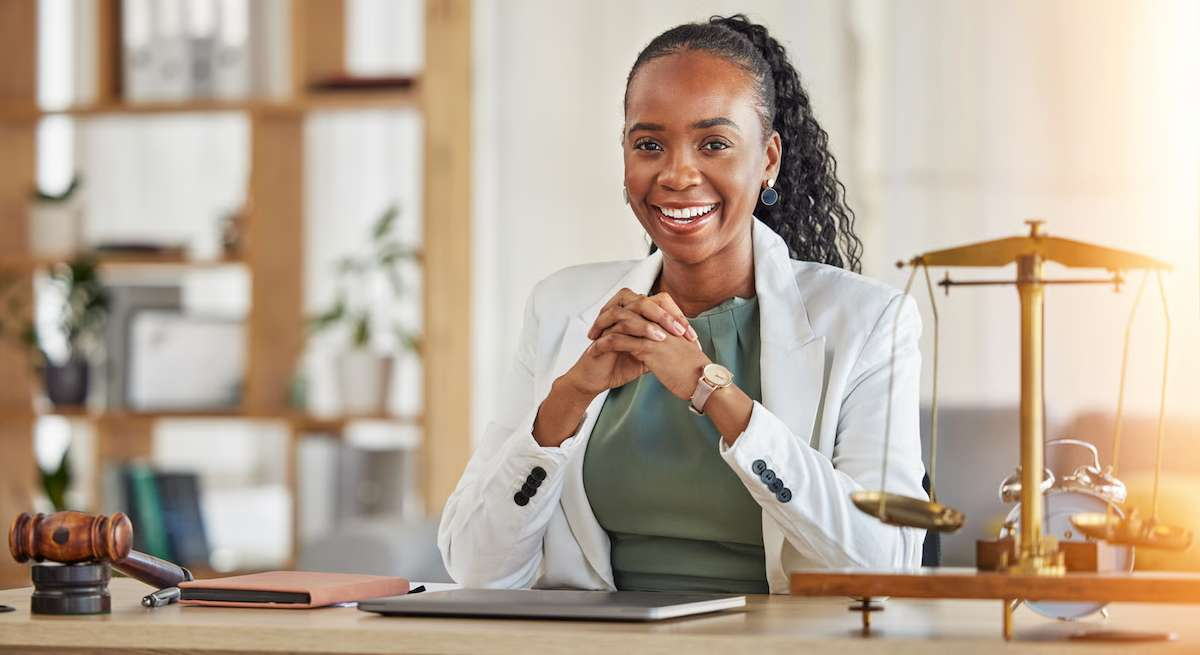
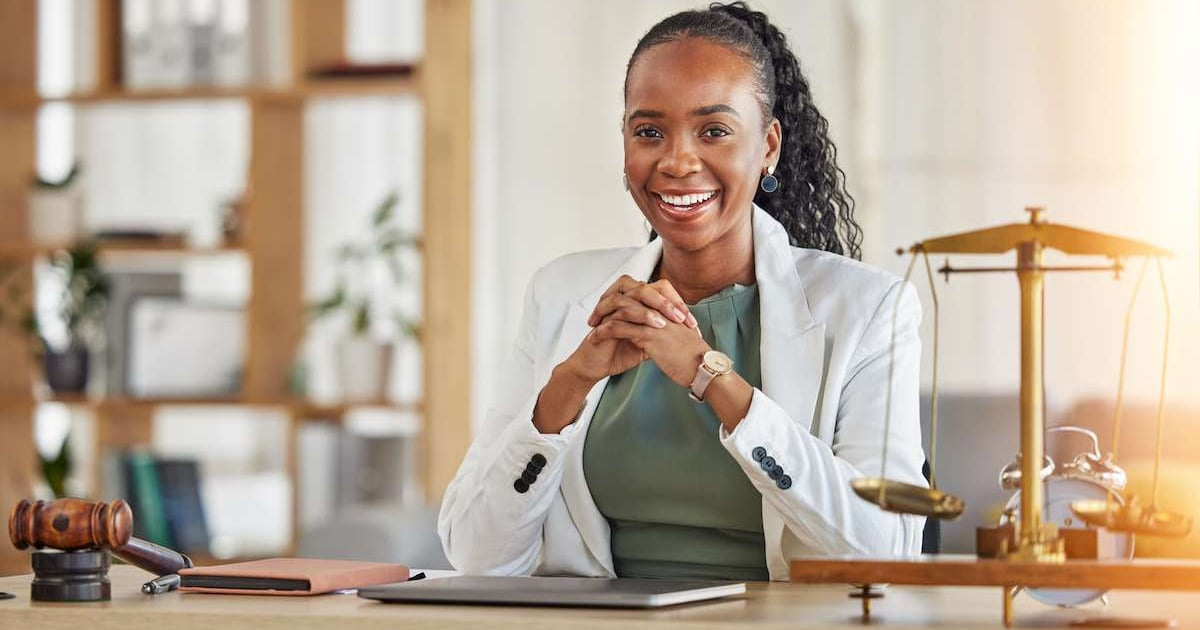
fix(seo): corrige issues do audit Woorank + ajustes de copy
Imagens OG (Open Graph):
- Redimensiona 7 imagens (~1200x630 padrão Facebook): landing-page-para
  -advogados.jpg, blog-landing-page.jpg, quem-somos.jpg, portfolio.jpg,
  politica-de-privacidade.jpg, termos-de-uso.jpg, 404.jpg.
  Antes: 1200x800/745/655 (ratios irregulares causando warning
  'og:image:height provided size doesn't match actual size').

Contraste WCAG (corrige falhas explícitas do Woorank):
- Hero URL preview text-white/45 → text-white/65 (era 3.87:1, agora >5:1)
- Hero 'BANCAS QUE CONFIARAM' text-white/45 → text-white/65 (era 4.33:1)
- Differentials número '/01' text-ink-300 → text-ink-500 (era 2.43:1)
- Footer copyright text-white/45 → text-white/65
- ContactForm '(opcional)' e placeholders text-ink-300 → text-ink-400
- BlogSearch ícone, placeholder e tempo leitura text-ink-300 → text-ink-400

Copy:
- Hero p1: 'landing pages' → 'landing page' (singular)
- Footer eyebrow: 'Landing Page para Advogados' → 'Landing Page para
  escritório de advocacia'

diff --git a/src/components/Hero.tsx b/src/components/Hero.tsx
@@ -68,7 +68,7 @@ export default function Hero() {
             </h1>
 
             <p className="mt-7 max-w-xl text-lg font-light leading-relaxed text-white/75">
-              Criamos <strong className="font-semibold text-white">landing pages para advogados</strong>{' '}
+              Criamos <strong className="font-semibold text-white">landing page para advogados</strong>{' '}
               com foco em estratégia, design profissional, SEO técnico e linguagem compatível com as
               regras da OAB.
             </p>
@@ -140,7 +140,7 @@ export default function Hero() {
                   <span className="h-2.5 w-2.5 rounded-full bg-rose-400/70" />
                   <span className="h-2.5 w-2.5 rounded-full bg-amber-300/70" />
                   <span className="h-2.5 w-2.5 rounded-full bg-emerald-400/70" />
-                  <span className="ml-2 flex-1 truncate rounded-md bg-white/5 px-2 py-1 text-[10px] text-white/45">
+                  <span className="ml-2 flex-1 truncate rounded-md bg-white/5 px-2 py-1 text-[10px] text-white/65">
                     landingpageparaadvogados.com
                   </span>
                 </div>
@@ -174,7 +174,7 @@ export default function Hero() {
 
         {/* Trust strip */}
         <div className="mt-20 border-t border-white/10 pt-8">
-          <p className="text-center text-[11px] uppercase tracking-[0.2em] text-white/45">
+          <p className="text-center text-[11px] uppercase tracking-[0.2em] text-white/65">
             Bancas que confiaram na nossa metodologia
           </p>
           <div className="mt-6 grid grid-cols-2 items-center gap-y-6 text-center text-sm font-light text-white/55 sm:grid-cols-3 md:gap-x-12">

diff --git a/src/components/BlogSearch.tsx b/src/components/BlogSearch.tsx
@@ -54,7 +54,7 @@ export default function BlogSearch({ posts }: Props) {
               viewBox="0 0 24 24"
               strokeWidth={2}
               stroke="currentColor"
-              className="pointer-events-none absolute left-4 top-1/2 h-5 w-5 -translate-y-1/2 text-ink-300"
+              className="pointer-events-none absolute left-4 top-1/2 h-5 w-5 -translate-y-1/2 text-ink-400"
               aria-hidden="true"
             >
               <path
@@ -72,7 +72,7 @@ export default function BlogSearch({ posts }: Props) {
               placeholder="Buscar por palavra-chave, tag ou categoria…"
               value={query}
               onChange={(e) => setQuery(e.target.value)}
-              className="w-full rounded-2xl border-0 bg-cream-50 py-4 pl-12 pr-4 text-sm font-light tracking-tight text-ink-900 placeholder:text-ink-300 focus:outline-none focus:ring-2 focus:ring-primary/20"
+              className="w-full rounded-2xl border-0 bg-cream-50 py-4 pl-12 pr-4 text-sm font-light tracking-tight text-ink-900 placeholder:text-ink-400 focus:outline-none focus:ring-2 focus:ring-primary/20"
             />
           </div>
 
@@ -167,7 +167,7 @@ export default function BlogSearch({ posts }: Props) {
               </p>
               <div className="mt-6 flex items-center justify-between text-xs">
                 <span className="font-light text-ink-400">{formatDate(p.date)}</span>
-                <span className="font-mono text-ink-300">{p.readingTime} min</span>
+                <span className="font-mono text-ink-400">{p.readingTime} min</span>
               </div>
             </div>
           </Link>

diff --git a/src/components/ContactForm.tsx b/src/components/ContactForm.tsx
@@ -33,7 +33,7 @@ export default function ContactForm() {
   }
 
   const inputClass =
-    'w-full rounded-2xl border border-ink-100 bg-white px-4 py-3 text-sm font-light text-ink-700 placeholder:text-ink-300 transition-colors focus:border-primary focus:outline-none focus:ring-2 focus:ring-primary/15';
+    'w-full rounded-2xl border border-ink-100 bg-white px-4 py-3 text-sm font-light text-ink-700 placeholder:text-ink-400 transition-colors focus:border-primary focus:outline-none focus:ring-2 focus:ring-primary/15';
   const labelClass = 'mb-2 block text-xs font-semibold uppercase tracking-widest text-ink-500';
 
   return (
@@ -89,7 +89,7 @@ export default function ContactForm() {
 
       <div>
         <label htmlFor="cf-segment" className={labelClass}>
-          Área de atuação <span className="text-ink-300 normal-case tracking-normal">(opcional)</span>
+          Área de atuação <span className="text-ink-400 normal-case tracking-normal">(opcional)</span>
         </label>
         <input
           id="cf-segment"
@@ -103,7 +103,7 @@ export default function ContactForm() {
 
       <div>
         <label htmlFor="cf-message" className={labelClass}>
-          Mensagem <span className="text-ink-300 normal-case tracking-normal">(opcional)</span>
+          Mensagem <span className="text-ink-400 normal-case tracking-normal">(opcional)</span>
         </label>
         <textarea
           id="cf-message"

diff --git a/src/components/Footer.tsx b/src/components/Footer.tsx
@@ -12,7 +12,7 @@ export default function Footer() {
       <div className="container-pp py-20">
         {/* Top: big quote */}
         <div className="mb-16 max-w-4xl">
-          <span className="eyebrow-light">Landing Page para Advogados</span>
+          <span className="eyebrow-light">Landing Page para escritório de advocacia</span>
           <p className="mt-6 font-display text-3xl font-light leading-tight tracking-tighter text-white/90 md:text-[2.4rem]">
             Criamos páginas jurídicas que combinam
             <span className="font-extrabold text-accent"> design</span>,{' '}
@@ -94,7 +94,7 @@ export default function Footer() {
       </div>
 
       <div className="border-t border-white/10">
-        <div className="container-pp py-6 text-center text-xs text-white/45">
+        <div className="container-pp py-6 text-center text-xs text-white/65">
           <p>
             Todos os Direitos Reservados © {year} Landing Page Para Advogados — CNPJ: 34.644.883/0001-94
           </p>

diff --git a/src/components/Differentials.tsx b/src/components/Differentials.tsx
@@ -84,7 +84,7 @@ export default function Differentials() {
                 <h3 className="font-display text-lg font-semibold tracking-tight text-ink-900">{it.title}</h3>
                 <p className="mt-2 text-sm font-light leading-relaxed text-ink-500">{it.text}</p>
 
-                <span className="mt-6 inline-block text-xs font-mono text-ink-300">
+                <span className="mt-6 inline-block text-xs font-mono text-ink-500">
                   /{(i + 1).toString().padStart(2, '0')}
                 </span>
               </div>
